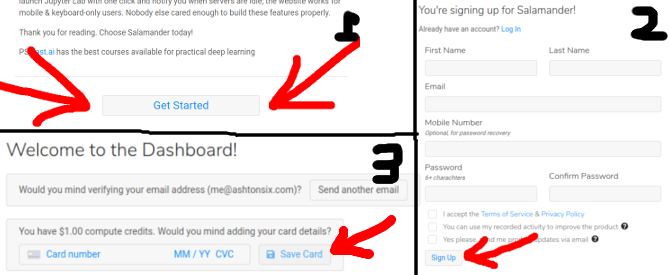
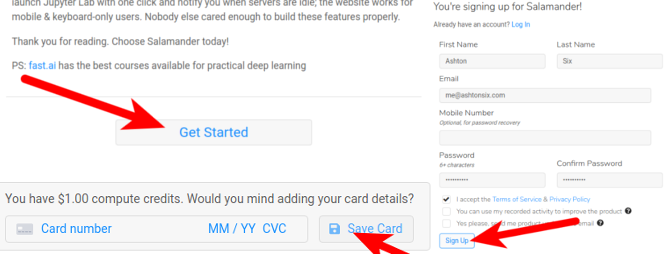
Adjust writing & images, add "AWS Credits" section

diff --git a/docs/salamander_tutorial.md b/docs/salamander_tutorial.md
@@ -3,53 +3,51 @@
 title: Salamander
 sidebar: home_sidebar
 
-
 ---
 
 # Welcome to Salamander!
 
-Your Salamander instance comes with fastai V1, PyTorch 1.0 and all fast.ai course materials out of the box.
+It takes about 1 minute to signup & launch a Salamander server. The servers include everything you need to complete the fastai v3 course. Once launched, You can jump straight to Jupyter Lab or connect directly via ssh.
 
 ## Pricing
 
-#### Prices per GPU
+Salamander tracks the AWS _spot_ price +26%. Prices at time of writing:
 
-Telsa K80: $0.36 per hour
+- K80: $0.36 per hour
+- V100: $1.32 per hour
 
-Tesla V100: $1.29 per hour
+#### AWS Credits
 
-#### Important considerations
-
-- You only pay for hardware when your server is turned on
-- Salamander's compute charge tracks the AWS spot price (+26%, and it picks the best availability zones to improve uptime / cost)
-- You keep paying for storage until you destroy a server
+If you have an AWS promo code you can redeem 75% of it's value for Salamander credits. Signup, email [support@salamander.ai](mailto:support@salamander.ai) with the subject "AWS CREDITS" & include your promo code in the email body. It will take up to 10 days for the credits to appear in your Salamander account.
 
 ## Step 1: Create an account
 
-Go to https://salamander.ai and click on 'Get Started'. Enter your email & password and click "Sign Up". Finally, add your credit card details and you are done!
+Visit https://salamander.ai, click "Get Started", fill-in the form & add your card details.
 
 ![](./images/salamander/create_account.png)
 
 ## Step 2: Create your server
 
-First you need to accept the CuDNN license & acknowledgements. Next, pick your software, hardware & storage size (if you do not know what to choose, just keep the default options). To start your server click "Launch Server". The server will take about 1 minute to start up. 
+> If you already have a Salamander account, we recommend creating a brand new server to get the latest version of fastai
+
+Pick your desired hardware & storage size (if you don't know what to choose, just keep the default options). Click "Launch Server". It'll take about a minute to start.
 
 ![](./images/salamander/create_server.png)
 
-## Step 3a: Connect to your server via terminal
+## Step 3: Connect to your Server
 
-To connect first click "Setup Access Key" and generate or upload a key. This key will be added to all of your servers. Copy & paste `ssh ubuntu@[xxx.xxx.xxx.xxx]`  from the webpage into your terminal and run it. You have accessed your server!
+#### via Terminal
 
-## ![](/home/chewing/course-v3/docs/images/salamander/connect.png)Step 3b: Access Jupyter Lab via webpage
+Click "Setup Access Key" and generate or upload an ssh key - it'll get added to all of your servers automatically. You can then copy & paste `ssh ubuntu@[xxx.xxx.xxx.xxx]` from the webpage to your terminal. Press enter & you're in!
 
-When the server is up and running you will be able to click on 'Jupyter Lab'. Navigate to your desired folder (e.g. ''~/fastai-courses/course-v3'). Open a notebook, & select the 'fastai' kernel ('fastai-0.7' for v2 course). You're up! If its your first time with Jupyter Notebooks please refer to our [Jupyter Notebooks tutorial](http://course-v3.fast.ai/notebook_tutorial.html).
+#### Jupyter Lab via Web
 
-![](./images/salamander/jupyter_lab_1.png)
+Just click "Jupyter Lab" - that's it.
 
-![](./images/salamander/jupyter_lab_2.png)
+![](./images/salamander/jupyter_lab_01.png)
 
+> You can switch to Jupyter Notebook if you prefer the old interface. Open "Preferences and Account Details" & click "Switch to Jupyter Notebook".
 
+After opening a notebook select the "fastai" kernel ("fastai-0.7" for v2 course). If you're unfamiliar with Jupyter Notebook please refer to our [Jupyter Notebook tutorial](http://course-v3.fast.ai/notebook_tutorial.html).
 
-## Step 4: Stop your server when you are not using it
-
-Remember to stop your server when you are not using it! You can do this in the webpage. Once stopped, you can replace your server's hardware and / or increase the storage size by clicking 'Modify'.
+![](./images/salamander/jupyter_lab_02.png)
